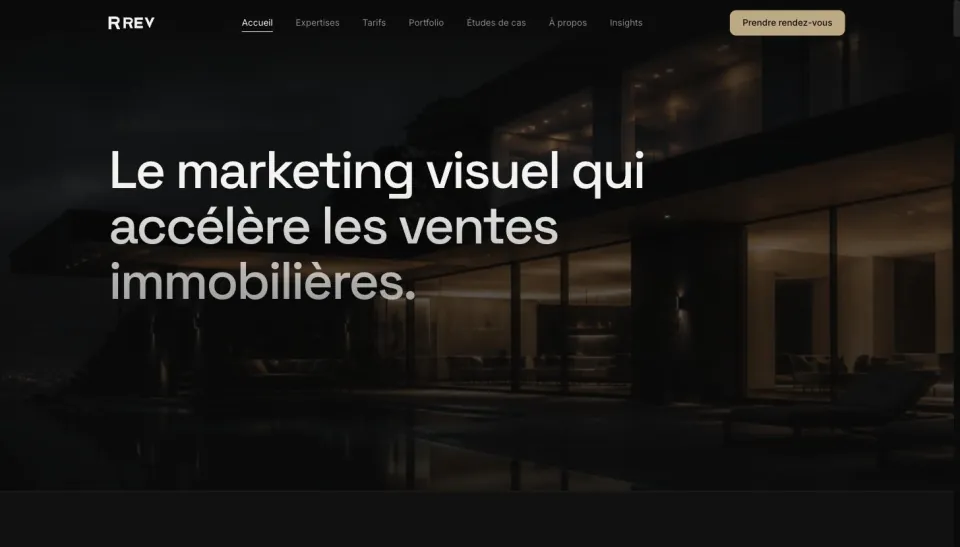
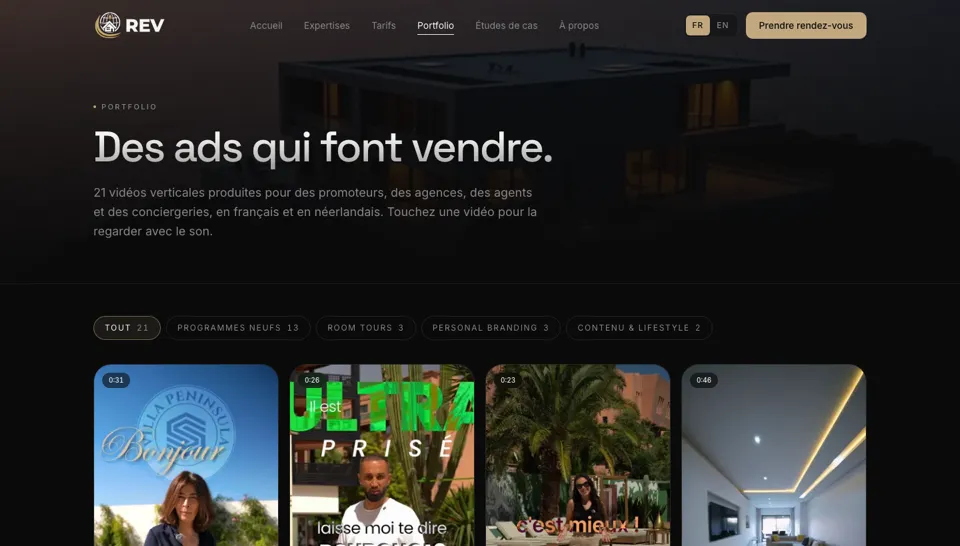
Étude de cas REV : la refonte du site de l'agence de croissance immobilière et le plan de vente interactif publiés sur /realisations/rev
Description de la carte corrigée (REV n'est pas une agence photo et n'a pas de formulaire de rendez-vous), adresse réelle realestatevision360.com liée depuis la seule fiche « En bref ». Nouvelle capture prise sur la page Portfolio, et non sur l'accueil, dont le hero affiche des compteurs de démonstration ; versions 960 et 1440 px et image de partage 1200x630. Texte alternatif de la capture rendu exact quelle que soit la page capturée, commentaires mis à jour pour deux études de cas de sites.

diff --git a/src/components/work/sites.data.ts b/src/components/work/sites.data.ts
@@ -22,8 +22,8 @@
  *  page d'etude de cas /realisations/<slug>, dans sa fiche « En bref ».
  *  Jamais depuis une carte (les cartes restent non cliquables, y compris
  *  celle d'un projet qui a son etude de cas), et jamais une adresse de
- *  previsualisation ou d'hebergeur. Premier et seul cas : Find Estate.
- *  Pour ce projet, `domain` reprend donc l'adresse reelle, deja publique
+ *  previsualisation ou d'hebergeur. Deux cas : Find Estate, puis REV.
+ *  Pour ces projets, `domain` reprend donc l'adresse reelle, deja publique
  *  par ce lien ; elle reste floutee dans la vignette comme les autres.
  *
  * ============================================================
@@ -173,23 +173,48 @@ export const SITE_ITEMS: SiteItem[] = [
     layout: 'editorial',
   },
   {
+    /*
+      Etude de cas ajoutee le 9 octobre 2026, deuxieme site apres Find
+      Estate. La capture est celle de la page Portfolio, et non de
+      l'accueil : le hero de l'accueil affiche des compteurs de
+      demonstration (vues, leads, likes) qui ne sont pas des chiffres
+      reels.
+    */
     slug: 'rev',
     title: 'R.E.V',
-    category: 'SITE VITRINE • IMMOBILIER',
+    category: 'REFONTE • IMMOBILIER',
     description:
-      'Site vitrine pour la photographie et la vidéo immobilière, avec formulaire de prise de rendez-vous.',
-    domain: 'rev-immobilier.com',
+      'Site bilingue d’une agence de croissance immobilière, et plan de vente interactif que les promoteurs publient pour leurs programmes.',
+    domain: 'realestatevision360.com',
     shot: '/work/sites/rev/shot-960.webp',
-    tags: ['Photo & vidéo', 'Rendez-vous', 'Immobilier'],
+    shotLarge: '/work/sites/rev/shot-1440.webp',
+    tags: ['Bilingue', 'Plan de vente', 'Visite 360°'],
     hue: 38,
     layout: 'editorial',
+    year: '2026',
+    caseStudy: {
+      client: 'REV — Real Estate Vision',
+      sector: 'immobilier',
+      services: ['creation-site-web'],
+      headline:
+        'Refonte de REV : le site d’une agence de croissance immobilière, et un plan de vente interactif pour les promoteurs.',
+      seoTitle: 'REV : refonte du site et plan de vente interactif',
+      seoDescription:
+        'Refonte du site de REV, agence de croissance immobilière, en français et en anglais, et plan de vente interactif pour les promoteurs : lots, visites 360°, vues 3D.',
+      summary:
+        'Pour REV — Real Estate Vision, agence de croissance immobilière qui accompagne promoteurs, agences et agents, UltraVision Agency a réalisé la refonte du site realestatevision360.com, en français et en anglais, puis un plan de vente interactif que les promoteurs peuvent publier et intégrer à leur propre site.',
+      execution:
+        'Site vitrine de seize pages, en français et en anglais : accueil où un iPhone fait défiler un catalogue de vingt et une publicités verticales, portfolio, expertises, tarifs, études de cas, contact par WhatsApp et lien de prise de rendez-vous. Pages générées à l’avance et servies par un Worker Cloudflare, vidéos chargées à l’approche de l’écran, polices auto-hébergées, données structurées. Plan de vente interactif pour les promoteurs : espace privé, lots modifiables ou importés en CSV, page publique avec statuts mis à jour en temps réel, fiches de lots, comparateur, carte du quartier, vues 3D et visites 360°, mode présentation pour le bureau de vente et version intégrable, en français et en anglais.',
+      tools: ['TanStack Start', 'Cloudflare Workers', 'Supabase', 'Photo Sphere Viewer', 'MapLibre'],
+      website: 'https://realestatevision360.com',
+    },
   },
   {
     /*
       Ajoute le 9 octobre 2026, a la place de l'exemple « Landing —
       Formation » : la grille garde ses six cartes. Premier site avec
-      une etude de cas, et seul projet dont l'adresse reelle est liee
-      (voir la REGLE 1, en tete de fichier).
+      une etude de cas, et premier projet dont l'adresse reelle est liee
+      (voir la REGLE 1, en tete de fichier) ; REV a suivi.
     */
     slug: 'find-estate',
     title: 'Find Estate',

diff --git a/src/routes/realisations.$slug.tsx b/src/routes/realisations.$slug.tsx
@@ -234,7 +234,7 @@ function CasePage() {
                     sizes={site.shotLarge ? "(min-width: 1280px) 1184px, 100vw" : undefined}
                     width={960}
                     height={546}
-                    alt={`Page d'accueil du site de ${c.client}${c.website ? ` (${domainOf(c.website)})` : ""}, en capture d'écran.`}
+                    alt={`Le site de ${c.client}${c.website ? ` (${domainOf(c.website)})` : ""}, en capture d'écran.`}
                     decoding="async"
                     className="block h-auto w-full"
                   />
@@ -248,7 +248,7 @@ function CasePage() {
 
       {story.length > 0 && (
         <Section surface>
-          {/* Une seule rubrique (Find Estate n'a que l'execution) : pleine
+          {/* Une seule rubrique (Find Estate et REV n'ont que l'execution) : pleine
               mesure de lecture plutot qu'une demi-colonne a cote d'un vide. */}
           <div className={story.length > 1 ? "grid gap-4 sm:grid-cols-2" : "max-w-3xl"}>
             {story.map((b) => (

diff --git a/src/routes/agence-marketing-digital-marrakech.tsx b/src/routes/agence-marketing-digital-marrakech.tsx
@@ -100,8 +100,8 @@ export const Route = createFileRoute("/agence-marketing-digital-marrakech")({
   lieu. Les cartes « Etude de cas », plus bas, ne gardent que les films
   (isFilm) : la section annonce « Tout est tourne et monte en interne »,
   ce qui ne vaut pas pour un site. Les etudes de cas de sites (Find
-  Estate, dont les photos sont celles des annonces Airbnb du client)
-  restent sur /realisations et sur les pages secteur et service.
+  Estate, dont les photos sont celles des annonces Airbnb du client, et
+  REV) restent sur /realisations et sur les pages secteur et service.
 */
 const WORKS = ["africa-beauty", "all-in-kech", "scultbody", "institut-beaute"]
   .map(findWork)

diff --git a/src/components/work/work.data.ts b/src/components/work/work.data.ts
@@ -19,7 +19,7 @@
  * `caseStudy`), et non ici. CASE_STUDIES, plus bas, reunit les deux
  * listes — les films d'abord, puis les sites — et c'est elle que lisent
  * la page /realisations/<slug>, les cartes « Etude de cas », le sitemap
- * et llms.txt. Premier cas : Find Estate.
+ * et llms.txt. Premier cas : Find Estate, puis REV.
  *
  * Pour distinguer les deux sortes : `isFilm(x)`. Un film a des `sources`
  * video, un site n'en a pas.
